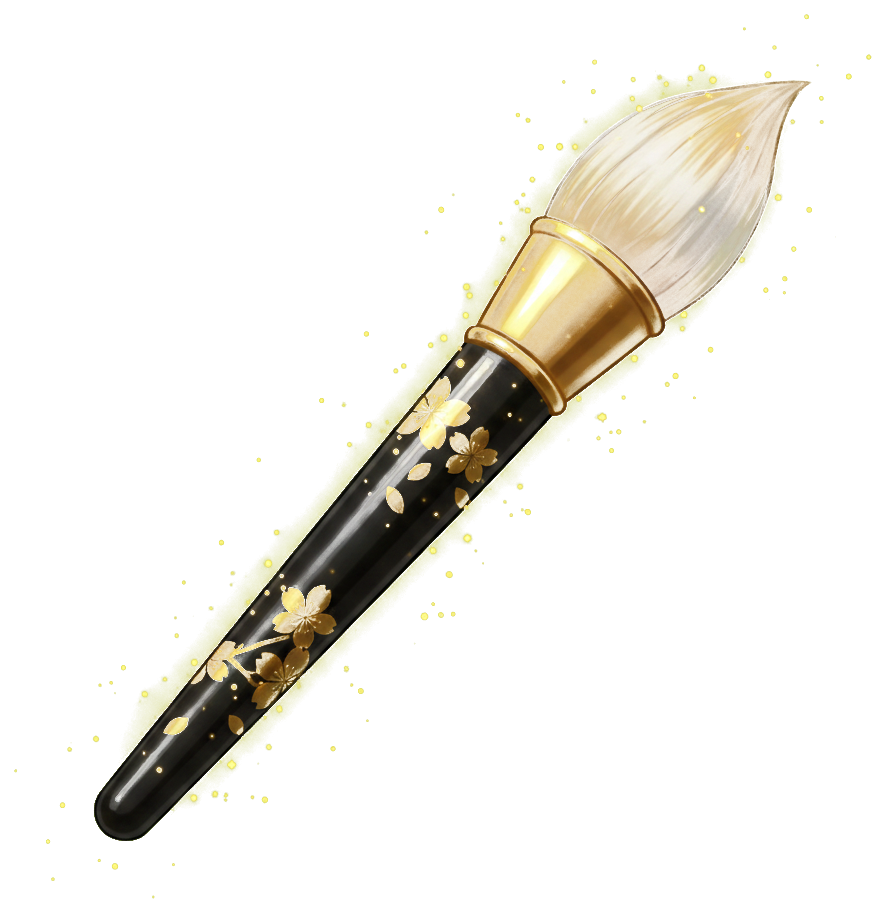
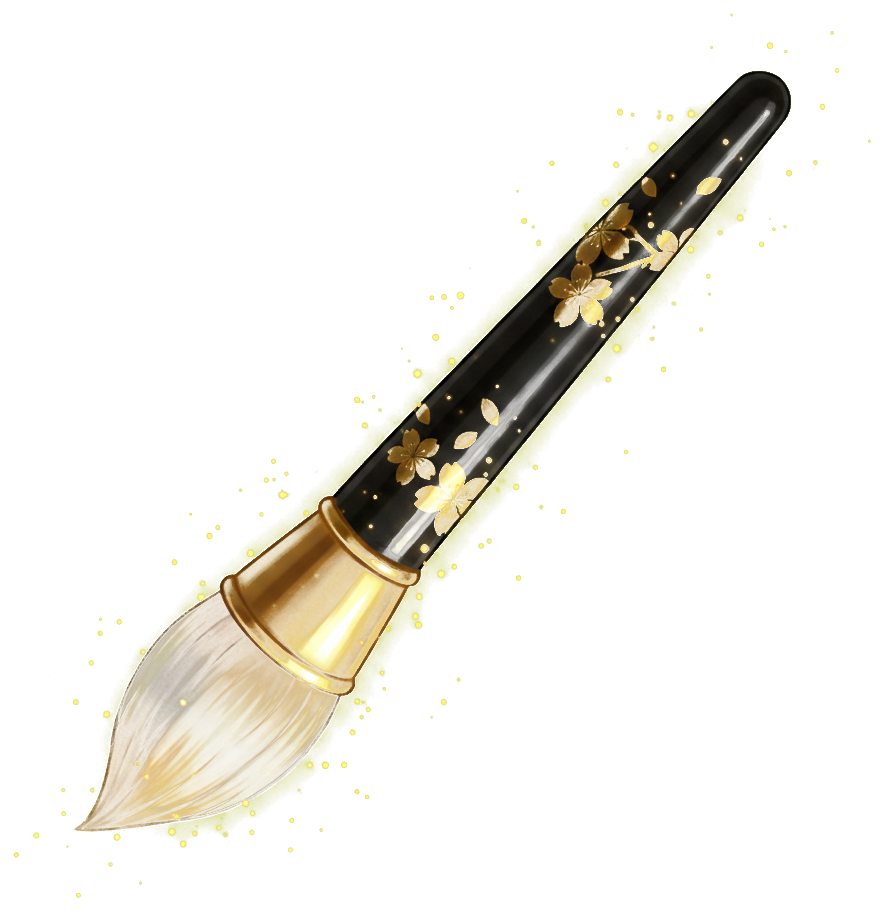
ショップ購入演出+装備選択+ホーム桜=装備筆+開発トグル
- ショップ: 筆購入直後に「桜が筆を持つ絵」を2秒表示(フェード＋ポップ・タップで即閉じ)。celebrate画像を各筆に紐付け
- アイテム画面: 所持の着せ替え/仲間をタップで装備切替(装備中ハイライト)。道具は所持のみ
- ホーム桜: 装備中の筆があれば『桜＋その筆』の絵で出現、無ければ既定の案内キャラ(まばたき)
- 開発用トグル(設定): ポイント無限(残高無視で無制限購入)/ Pro課金(Pro⇔無課金の状態切替。ゲートは今後参照)
- 金蒔絵の筆アイコンを180°回転し他4本と向き統一

Changed region(s): [[0.0916, 0.0615, 0.9163, 0.9221]]

diff --git a/src/screens/ShopScreen.tsx b/src/screens/ShopScreen.tsx
@@ -2,8 +2,8 @@
 //  大分類タブ=着せ替え/仲間/道具。着せ替えは髪型/服/筆の小見出しで整理。
 //  着せ替え・仲間=owned/equipped の状態管理。道具=所持のみ(効果は順次)。通貨=桜貝(wallet.points)。
 //  背景テーマ・フォントは設定画面へ移設(ここには無い)。
-import { useState } from 'react';
-import { View, Text, Pressable, StyleSheet, ScrollView, Image, ImageBackground, useWindowDimensions } from 'react-native';
+import { useEffect, useRef, useState } from 'react';
+import { View, Text, Pressable, StyleSheet, ScrollView, Image, ImageBackground, Animated, useWindowDimensions } from 'react-native';
 import { SafeAreaView } from 'react-native-safe-area-context';
 import { useNavigation } from '@react-navigation/native';
 import { useAppState, useAppActions } from '../store/store';
@@ -16,8 +16,21 @@ export default function ShopScreen() {
   const nav = useNavigation();
   const { height } = useWindowDimensions();
   const state = useAppState();
-  const { buyItem, equipItem } = useAppActions();
+  const { buyItem, equipItem, addPoints } = useAppActions();
+  const devUnlimited = state.settings.devUnlimitedPoints === true;
   const [cat, setCat] = useState<ShopCat>('dressup');
+  // 購入直後の演出(桜が筆を持つ絵を2秒表示)。
+  const [celebrate, setCelebrate] = useState<ShopItem | null>(null);
+  const celAnim = useRef(new Animated.Value(0)).current;
+  const celTimer = useRef<ReturnType<typeof setTimeout> | null>(null);
+  useEffect(() => () => { if (celTimer.current) clearTimeout(celTimer.current); }, []);
+  const showCelebrate = (i: ShopItem) => {
+    setCelebrate(i);
+    celAnim.setValue(0);
+    Animated.spring(celAnim, { toValue: 1, useNativeDriver: true, friction: 6, tension: 80 }).start();
+    if (celTimer.current) clearTimeout(celTimer.current);
+    celTimer.current = setTimeout(() => setCelebrate(null), 2000);
+  };
   const items = SHOP.filter((i) => i.cat === cat);
   const kinds = [...new Set(items.map((i) => i.kind))]; // タブ内のスロット種別(着せ替え=髪型/服/筆)
   const showKindHead = kinds.length > 1;
@@ -25,10 +38,17 @@ export default function ShopScreen() {
   const points = walletPoints(state);
   const ownedItem = (i: ShopItem) => isOwned(state, i.id);
   const equippedItem = (i: ShopItem) => isEquipped(state, { id: i.id, kind: i.kind });
-  const canBuyItem = (i: ShopItem) => !ownedItem(i) && points >= i.price;
+  const canBuyItem = (i: ShopItem) => !ownedItem(i) && (devUnlimited || points >= i.price);
 
   const act = (i: ShopItem) => {
-    if (!ownedItem(i)) { if (canBuyItem(i)) buyItem(i); return; } // 未所持(無料含む)→取得
+    if (!ownedItem(i)) {
+      if (canBuyItem(i)) {
+        if (devUnlimited && points < i.price) addPoints(1_000_000); // 【開発用】無限ポイント: 残高を確保して必ず購入
+        buyItem(i);
+        if (i.celebrate) showCelebrate(i);
+      }
+      return; // 未所持(無料含む)→取得。演出あり品は2秒表示
+    }
     if (i.kind === 'tool') return;                                 // 道具=所持のみ
     if (equippedItem(i)) return;                                   // 装備中→何もしない
     equipItem({ id: i.id, kind: i.kind });                         // 着せ替え/仲間=装備
@@ -87,6 +107,21 @@ export default function ShopScreen() {
           ))}
         </ScrollView>
       </View>
+
+      {/* 購入演出: 桜が手に入れた筆を持って2秒登場(タップで即閉じ)。 */}
+      {celebrate && (
+        <Animated.View style={[s.celOverlay, { opacity: celAnim }]}>
+          <Pressable style={s.celFill} onPress={() => setCelebrate(null)}>
+            <Text style={s.celGot}>手に入れた！</Text>
+            <Animated.Image
+              source={celebrate.celebrate!}
+              resizeMode="contain"
+              style={[s.celImg, { transform: [{ scale: celAnim.interpolate({ inputRange: [0, 1], outputRange: [0.6, 1] }) }] }]}
+            />
+            <Text style={s.celName}>{celebrate.name}</Text>
+          </Pressable>
+        </Animated.View>
+      )}
     </View>
   );
 }
@@ -121,4 +156,9 @@ const s = StyleSheet.create({
   pillOwn: { backgroundColor: '#eaf1fb', borderWidth: 1, borderColor: '#a9c6f2' }, txtOwn: { color: '#3f7fd6' },
   pillBuy: { backgroundColor: '#3f7fd6' }, txtBuy: { color: '#fff' },
   pillNo: { backgroundColor: '#eee' }, txtNo: { color: '#aaa' },
+  celOverlay: { ...StyleSheet.absoluteFillObject, zIndex: 20 },
+  celFill: { flex: 1, alignItems: 'center', justifyContent: 'center', backgroundColor: 'rgba(30,20,12,0.62)', gap: 8 },
+  celGot: { color: '#ffe9c2', fontSize: 22, fontWeight: '900', letterSpacing: 2, textShadowColor: 'rgba(0,0,0,0.6)', textShadowRadius: 6 },
+  celImg: { width: '78%', height: '58%' },
+  celName: { color: '#fff', fontSize: 18, fontWeight: '900', textShadowColor: 'rgba(0,0,0,0.6)', textShadowRadius: 6 },
 });

diff --git a/src/screens/InventoryScreen.tsx b/src/screens/InventoryScreen.tsx
@@ -8,7 +8,7 @@ import { useNavigation } from '@react-navigation/native';
 import type { NativeStackNavigationProp } from '@react-navigation/native-stack';
 import { spacing, radius, type as ty, useColors, type ThemeColors } from '../theme';
 import { useT } from '../i18n';
-import { useAppState } from '../store/store';
+import { useAppState, useAppActions } from '../store/store';
 import { isEquipped } from '../store/wallet';
 import { SHOP_BY_ID, type ShopItem } from '../data/shop';
 import { homeStatus } from '../home/homeStatus';
@@ -26,6 +26,7 @@ export default function InventoryScreen() {
   const s = useMemo(() => makeStyles(c), [c]);
   const nav = useNavigation<Nav>();
   const state = useAppState();
+  const { equipItem } = useAppActions();
   const now = Date.now();
 
   const owned = (state.owned ?? []).map((id) => SHOP_BY_ID[id]).filter(Boolean) as ShopItem[];
@@ -41,18 +42,28 @@ export default function InventoryScreen() {
   const badgeSet = state.settings.badgeSet ?? 'gorgeous';
   const [coll, setColl] = useState<{ metric: BadgeMetric; pct: number } | null>(null);
 
-  const card = (i: ShopItem) => (
-    <View key={i.id} style={s.card}>
-      {i.asset ? (
-        <Image source={i.asset} style={[s.prev, s.prevImg]} resizeMode="contain" />
-      ) : (
-        <View style={[s.prev, s.prevEmoji]}><Text style={s.emoji}>{i.emoji ?? '❔'}</Text></View>
-      )}
-      <Text style={s.cardName} numberOfLines={1}>{i.name}</Text>
-      {i.rarity ? <Text style={s.rarity}>{'★'.repeat(i.rarity)}<Text style={s.rarityOff}>{'★'.repeat(5 - i.rarity)}</Text></Text> : null}
-      {isEquipped(state, { id: i.id, kind: i.kind }) ? <Text style={s.equipped}>{t('inventory.equipped')}</Text> : null}
-    </View>
-  );
+  const card = (i: ShopItem) => {
+    const equipped = isEquipped(state, { id: i.id, kind: i.kind });
+    const equippable = i.kind !== 'tool';
+    return (
+      <Pressable
+        key={i.id}
+        style={[s.card, equipped && s.cardOn]}
+        disabled={!equippable || equipped}
+        onPress={() => equipItem({ id: i.id, kind: i.kind })}
+      >
+        {i.asset ? (
+          <Image source={i.asset} style={[s.prev, s.prevImg]} resizeMode="contain" />
+        ) : (
+          <View style={[s.prev, s.prevEmoji]}><Text style={s.emoji}>{i.emoji ?? '❔'}</Text></View>
+        )}
+        <Text style={s.cardName} numberOfLines={1}>{i.name}</Text>
+        {i.rarity ? <Text style={s.rarity}>{'★'.repeat(i.rarity)}<Text style={s.rarityOff}>{'★'.repeat(5 - i.rarity)}</Text></Text> : null}
+        {equipped ? <Text style={s.equipped}>{t('inventory.equipped')}</Text>
+          : equippable ? <Text style={s.equipHint}>{t('inventory.equip')}</Text> : null}
+      </Pressable>
+    );
+  };
 
   const emptyHint = (
     <Pressable style={s.empty} onPress={() => nav.navigate('Shop')}>
@@ -113,6 +124,8 @@ const makeStyles = (c: ThemeColors) =>
     section: { fontSize: ty.small, fontWeight: '800', color: c.ink2, marginTop: spacing.md, marginBottom: spacing.sm },
     grid: { flexDirection: 'row', flexWrap: 'wrap', gap: spacing.sm },
     card: { width: '31%', backgroundColor: c.surface, borderRadius: radius.lg, borderWidth: 1, borderColor: c.line, padding: spacing.sm, alignItems: 'center' },
+    cardOn: { borderColor: c.blue, backgroundColor: c.blueLight },
+    equipHint: { marginTop: 2, fontSize: ty.tiny, fontWeight: '700', color: c.mute },
     prev: { width: '100%', aspectRatio: 1, borderRadius: radius.md },
     prevImg: { backgroundColor: '#f7efe0' },
     prevEmoji: { backgroundColor: c.bgSoft, alignItems: 'center', justifyContent: 'center' }, emoji: { fontSize: 34 },

diff --git a/src/screens/ProfileScreen.tsx b/src/screens/ProfileScreen.tsx
@@ -330,6 +330,37 @@ export default function ProfileScreen() {
           </Pressable>
         </View>
 
+        {/* 開発用トグル(テスト用途)。ポイント無限＝ショップ無制限購入 / Pro課金＝Pro/無課金の切替 */}
+        <Text style={s.sectionH}>開発用</Text>
+        <View style={s.card}>
+          <View style={s.telemRow}>
+            <View style={s.telemTxt}>
+              <Text style={s.telemLbl}>ポイント無限</Text>
+              <Text style={s.subtle}>ONでショップを桜貝の残高に関係なく無制限に購入できる</Text>
+            </View>
+            <Switch
+              style={s.telemSwitch}
+              value={state.settings.devUnlimitedPoints === true}
+              onValueChange={(v) => setSettings({ devUnlimitedPoints: v })}
+              trackColor={{ true: c.blueLight, false: c.line }}
+              thumbColor={c.faint}
+            />
+          </View>
+          <View style={s.telemRow}>
+            <View style={s.telemTxt}>
+              <Text style={s.telemLbl}>Pro課金</Text>
+              <Text style={s.subtle}>ON=Pro課金状態 / OFF=無課金ユーザー状態として扱う</Text>
+            </View>
+            <Switch
+              style={s.telemSwitch}
+              value={state.settings.devPro === true}
+              onValueChange={(v) => setSettings({ devPro: v })}
+              trackColor={{ true: c.blueLight, false: c.line }}
+              thumbColor={c.faint}
+            />
+          </View>
+        </View>
+
         {/* バージョン＋Build番号(全セッション共通ルール: 画面に版を表示) */}
         <Text style={s.version}>
           v{Application.nativeApplicationVersion ?? '1.1.0'} (build {Application.nativeBuildVersion ?? '—'})

diff --git a/src/home/HomeCoach.tsx b/src/home/HomeCoach.tsx
@@ -5,6 +5,8 @@
 import { useCallback, useEffect, useRef, useState } from 'react';
 import { View, Text, Image, Animated, Pressable, StyleSheet, useWindowDimensions } from 'react-native';
 import { useT } from '../i18n';
+import { useAppState } from '../store/store';
+import { SHOP_BY_ID } from '../data/shop';
 import type { HomeStatus } from './homeStatus';
 import { coachLines, pickLine } from './coachLines';
 
@@ -14,6 +16,10 @@ const BLINK = require('../../assets/mywords/guide_blink.png');
 export default function HomeCoach({ status, learned }: { status: HomeStatus; learned: number }) {
   const t = useT();
   const { width } = useWindowDimensions();
+  const state = useAppState();
+  // 装備中の筆があれば、その「桜が筆を持つ絵」で出現。なければ既定の案内キャラ(まばたきあり)。
+  const eqBrush = state.equipped?.brush;
+  const brushImg = eqBrush ? SHOP_BY_ID[eqBrush]?.celebrate : undefined;
   const [line, setLine] = useState<string | null>(null);
   const [eyesClosed, setEyesClosed] = useState(false);
   const bob = useRef(new Animated.Value(0)).current;
@@ -68,7 +74,9 @@ export default function HomeCoach({ status, learned }: { status: HomeStatus; lea
   }, [bob]);
 
   const onTapChar = () => (line != null ? dismiss() : showAdvice());
-  const charW = Math.round(width * 0.40);
+  // 装備筆の絵(桜＋筆)は縦長なので少し大きめ＋縦横比を変える。既定の案内キャラはほぼ正方形。
+  const charW = Math.round(width * (brushImg ? 0.52 : 0.40));
+  const charH = Math.round(charW * (brushImg ? 1.5 : 1.12));
   const bobY = bob.interpolate({ inputRange: [0, 1], outputRange: [0, -9] });
 
   return (
@@ -84,7 +92,7 @@ export default function HomeCoach({ status, learned }: { status: HomeStatus; lea
       )}
       <Animated.View style={{ transform: [{ translateY: bobY }] }}>
         <Pressable onPress={onTapChar} hitSlop={4}>
-          <Image source={eyesClosed ? BLINK : OPEN} style={{ width: charW, height: charW }} resizeMode="contain" />
+          <Image source={brushImg ?? (eyesClosed ? BLINK : OPEN)} style={{ width: charW, height: charH }} resizeMode="contain" />
         </Pressable>
       </Animated.View>
     </View>

diff --git a/src/data/shop.ts b/src/data/shop.ts
@@ -10,6 +10,7 @@ export type ShopCat = 'dressup' | 'companion' | 'tool';
 export type ShopItem = {
   id: string; cat: ShopCat; kind: ShopKind; price: number; name: string; emoji?: string; asset?: ImageSourcePropType;
   rarity?: number; // 希少度(1〜5)。価値の目安として★で表示。省略=無印
+  celebrate?: ImageSourcePropType; // 購入直後に2秒表示する演出画像(桜が持つ絵)
 };
 
 export const SHOP: ShopItem[] = [
@@ -20,11 +21,11 @@ export const SHOP: ShopItem[] = [
   { id: 'outfit_miko', cat: 'dressup', kind: 'outfit', price: 0, name: '巫女装束', emoji: '👘' },
   { id: 'outfit_yukata', cat: 'dressup', kind: 'outfit', price: 700, name: '夏の浴衣', emoji: '🎐' },
   { id: 'outfit_haregi', cat: 'dressup', kind: 'outfit', price: 1000, name: '桜の晴れ着', emoji: '🌸' },
-  { id: 'brush_take', cat: 'dressup', kind: 'brush', price: 0, name: '竹の筆', rarity: 1, asset: require('../../assets/shop/brush/brush_take.png') },
-  { id: 'brush_sakura', cat: 'dressup', kind: 'brush', price: 400, name: '桜染めの筆', rarity: 2, asset: require('../../assets/shop/brush/brush_sakura.png') },
-  { id: 'brush_makie', cat: 'dressup', kind: 'brush', price: 900, name: '金蒔絵の筆', rarity: 3, asset: require('../../assets/shop/brush/brush_makie.png') },
-  { id: 'brush_raden', cat: 'dressup', kind: 'brush', price: 1600, name: '螺鈿の筆', rarity: 4, asset: require('../../assets/shop/brush/brush_raden.png') },
-  { id: 'brush_tenpitsu', cat: 'dressup', kind: 'brush', price: 2800, name: '天の霊筆', rarity: 5, asset: require('../../assets/shop/brush/brush_tenpitsu.png') },
+  { id: 'brush_take', cat: 'dressup', kind: 'brush', price: 0, name: '竹の筆', rarity: 1, asset: require('../../assets/shop/brush/brush_take.png'), celebrate: require('../../assets/shop/celebrate/brush_take.png') },
+  { id: 'brush_sakura', cat: 'dressup', kind: 'brush', price: 400, name: '桜染めの筆', rarity: 2, asset: require('../../assets/shop/brush/brush_sakura.png'), celebrate: require('../../assets/shop/celebrate/brush_sakura.png') },
+  { id: 'brush_makie', cat: 'dressup', kind: 'brush', price: 900, name: '金蒔絵の筆', rarity: 3, asset: require('../../assets/shop/brush/brush_makie.png'), celebrate: require('../../assets/shop/celebrate/brush_makie.png') },
+  { id: 'brush_raden', cat: 'dressup', kind: 'brush', price: 1600, name: '螺鈿の筆', rarity: 4, asset: require('../../assets/shop/brush/brush_raden.png'), celebrate: require('../../assets/shop/celebrate/brush_raden.png') },
+  { id: 'brush_tenpitsu', cat: 'dressup', kind: 'brush', price: 2800, name: '天の霊筆', rarity: 5, asset: require('../../assets/shop/brush/brush_tenpitsu.png'), celebrate: require('../../assets/shop/celebrate/brush_tenpitsu.png') },
   // 仲間 — 連れ歩く相棒。1体を選んで装備。
   { id: 'pet_dog', cat: 'companion', kind: 'companion', price: 500, name: '子犬', emoji: '🐕' },
   { id: 'pet_fox', cat: 'companion', kind: 'companion', price: 800, name: '白狐', emoji: '🦊' },

diff --git a/src/store/state.ts b/src/store/state.ts
@@ -31,6 +31,8 @@ export interface Settings {
   kakitoriSpeed?: 'slow' | 'normal' | 'fast'; // 書き順アニメ速度(未設定→normal)
   kakitoriSound?: boolean;                  // 合格時の読み上げTTS(未設定→ON)
   kakitoriMode?: 'drill' | 'free';          // ドリル/自由練習(未設定→drill)
+  devUnlimitedPoints?: boolean;             // 【開発用】ON=桜貝を無限に扱い、ショップで無制限購入
+  devPro?: boolean;                         // 【開発用】ON=Pro課金状態 / OFF=無課金として扱う
 }
 
 export interface Streak {